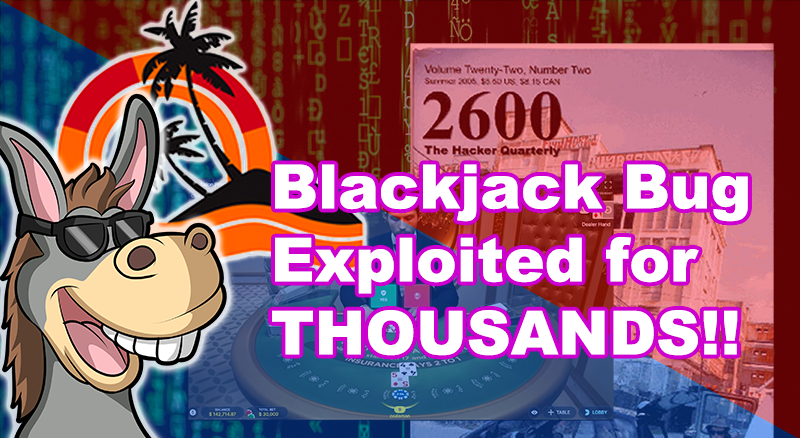
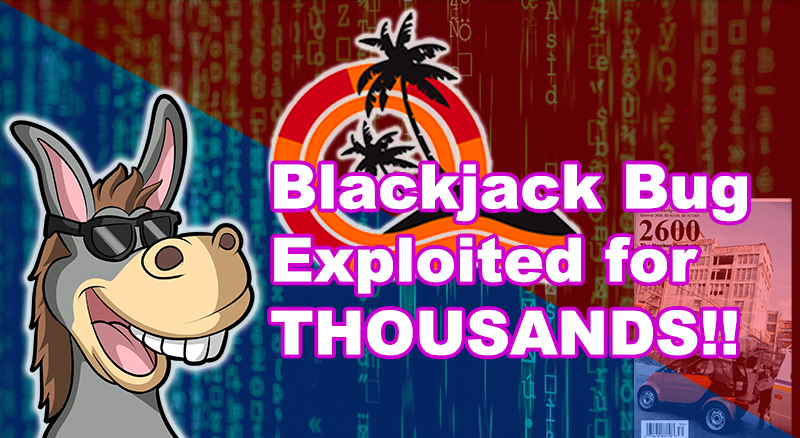
new thumbnail, Made glossary case-insensitive

diff --git a/_posts/2022-05-08-I-Exploited-a-Blackjack-Bug-For-Thousands-of-Dollars.html b/_posts/2022-05-08-I-Exploited-a-Blackjack-Bug-For-Thousands-of-Dollars.html
@@ -25,9 +25,10 @@ math: true
 
 <h2>The Bug</h2>
 <p>
-    My brother said that whenever the software asked you if you wanted Insurance, there was a
-    noticible delay before the window popped up when they had a Ten in the hole. When their
-    hole card was <i>not</i> a Ten, there was no delay.
+    My brother said that whenever the software asked you if you wanted
+    {% include glossary-term.html term="Insurance" -%},
+    there was a noticible delay before the window popped up when they had a Ten in the hole.
+    When their hole card was <i>not</i> a Ten, there was no delay.
 </p>
 <p>
     This was a <b>HUGE</b> boon to the player!
@@ -39,12 +40,13 @@ math: true
     player one full bet every 42 hands or so.
 </p>
 
-<h3>The Insurance Bet</h3>
+<h3>What is the Insurance Bet?</h3>
 <p>
-    Insurance is offered in the game of Blackjack when the dealer has an Ace as their initial upcard. The
-    player is offered "insurance" to "protect" them against the dealer having a Blackjack, and the insurance
-    bet can be (up to) half of their initial bet. If the dealer has a Ten in the hole, then their insurance
-    bet wins 2:1, essentially resulting in a push, since the initial bet would have lost.
+    Insurance is offered in the game of Blackjack when the dealer has an Ace as their initial upcard.
+    The player is offered "insurance" to "protect" them against the dealer having a Blackjack, and
+    the insurance bet can be (up to) half of their initial bet. If the dealer has a Ten in the hole,
+    then their insurance bet wins 2:1, essentially resulting in a push, since the initial bet would
+    have lost.
 </p>
 <p>
     The Insurance bet is usually a horrible proposition for the player, with a house advantage
@@ -66,8 +68,8 @@ math: true
 
 <h2>The Edge</h2>
 <p>
-    The normal overall house advantage for Blackjack is about 0.5%. The bug allowed you to tip the
-    edge in the player's favor by much more than that!
+    The normal overall house advantage for the game of Blackjack is about 0.5%. The bug allowed you to
+    tip the edge in the player's favor by much more than that!
 </p>
 <p>
     There was one case where the bug didn't telegraph the hole card. If the player had a Blackjack
@@ -75,11 +77,13 @@ math: true
     dealer's hole card was.
 </p>
 <p>
-    So to estimate the change in Expected Value (EV) due to this bug, you can use the following formula:
+    So to estimate the change in
+    {% include glossary-term.html term="EV" displayName="Expected Value" %}
+    (EV) due to this bug, you can use the following formula:
 </p>
 <p class="p-center">
     \begin{align}
-    \Delta_{EV} & \approx P_{Dlr\,Ace\,upcrd} \times P_{Dlr\,10\,holecrd} \times (1 - P_{Plr\,BJ}) \times Win\,amt\\
+    \Delta_{EV} & \approx P_{Dlr\,Ace\,upcd} \times P_{Dlr\,10\,holecd} \times (1 - P_{Plr\,BJ}) \times Win\,amt\\
     \\
     & \approx \frac{1}{13} \times \frac{4}{13} \times (1 - \frac{8}{169}) \times 1 \, unit \\
     \\
@@ -165,11 +169,11 @@ math: true
     off this added information.
 </p>
 <figure>
-    <img src="{{site.baseurl}}/assets/img/posts/2022-05-08/03-video-poker-600x338.png" alt="Video Poker Screen" width="600" height="338"/>
+    <img src="{{site.baseurl}}/assets/img/posts/2022-05-08/03-video-poker-800x450.png" alt="Video Poker Screen"/>
     <figcaption>
-        In most computerized gambling systems, your fate isn't sealed until you commit your decision. In
-        Video Poker, the computer doesn't know what cards you will draw until you tap the <b>DRAW</b> button.
-        You will get different cards depending on when you tap the button.
+        In most computerized gambling systems, your fate isn't sealed until you commit your decision. For
+        example, in Video Poker, the computer doesn't know what cards you will draw until you tap the
+        <b>DRAW</b> button. You will get different cards depending on when you tap the button.
     </figcaption>
 </figure>
 <p>
@@ -177,20 +181,22 @@ math: true
     then you'd know the dealer had a 16 total, which is the worst possible starting hand for a dealer.
     Knowing this, you might stand on a 15 when you would normally hit. This would be a huge flaw that a
     bad actor could exploit and gain an
-    <a href="https://en.wikipedia.org/wiki/Hole_carding" target="_blank">advantage of around 13%</a>!
+    <a href="https://wizardofodds.com/games/blackjack/both-dealer-cards-exposed/" target="_blank">advantage of around 10%</a>!
 </p>
 <p>
     So most likely, when the dealer had an Ace showing, their servers would have to go through the extra
     steps of actually dealing a card (most likely just eliminating the Ten as a possibility). When the card
     was determined to be a Ten, then many aspects of the hand could be finalized as the system would know
     that no additional cards would be dealt. This could also explain why the delay was present when the
-    player had a natural 21. In that case, 
+    player also had a
+    {% include glossary-term.html term="natural" %}
+    21.
 </p>
 <p>
     And their fix was to most likely just artificially add the delay there artificially. At least that's
-    how I would have first approached the solution, as it's easy to implement and would have masked the
-    solution sufficiently. The other option would have been to only check for a Ten <i>after</i> the player
-    decides whether he wants insurance.
+    how I would have first approached the solution, as it would be easy to implement and would have masked
+    the solution sufficiently. The other option would have been to only check for a Ten <i>after</i> the
+    player decides whether he wants insurance.
 </p>
 
 <h2>Epilogue</h2>

diff --git a/_includes/glossary-term.html b/_includes/glossary-term.html
@@ -1,5 +1,7 @@
 {% assign displayName = include.displayName | default: include.term %}
-{%- assign term = site.data.glossary | where: "term", include.term | first -%}
+{% assign searchTerm = include.term | downcase %}
+
+{%- assign term = site.data.glossary | where: "term", searchTerm | first -%}
 
 <span class="glossary-term">
     {{- displayName -}}
